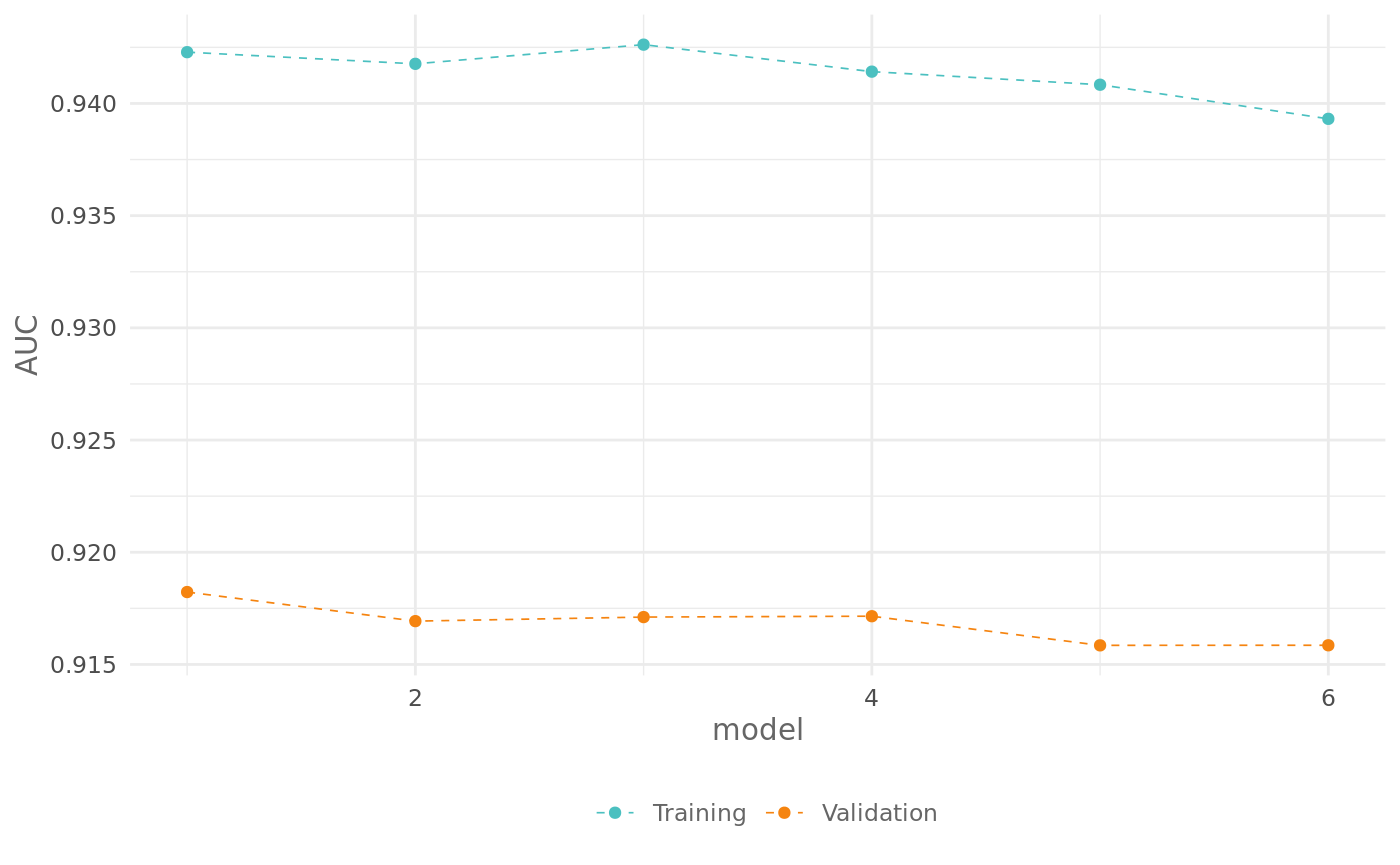
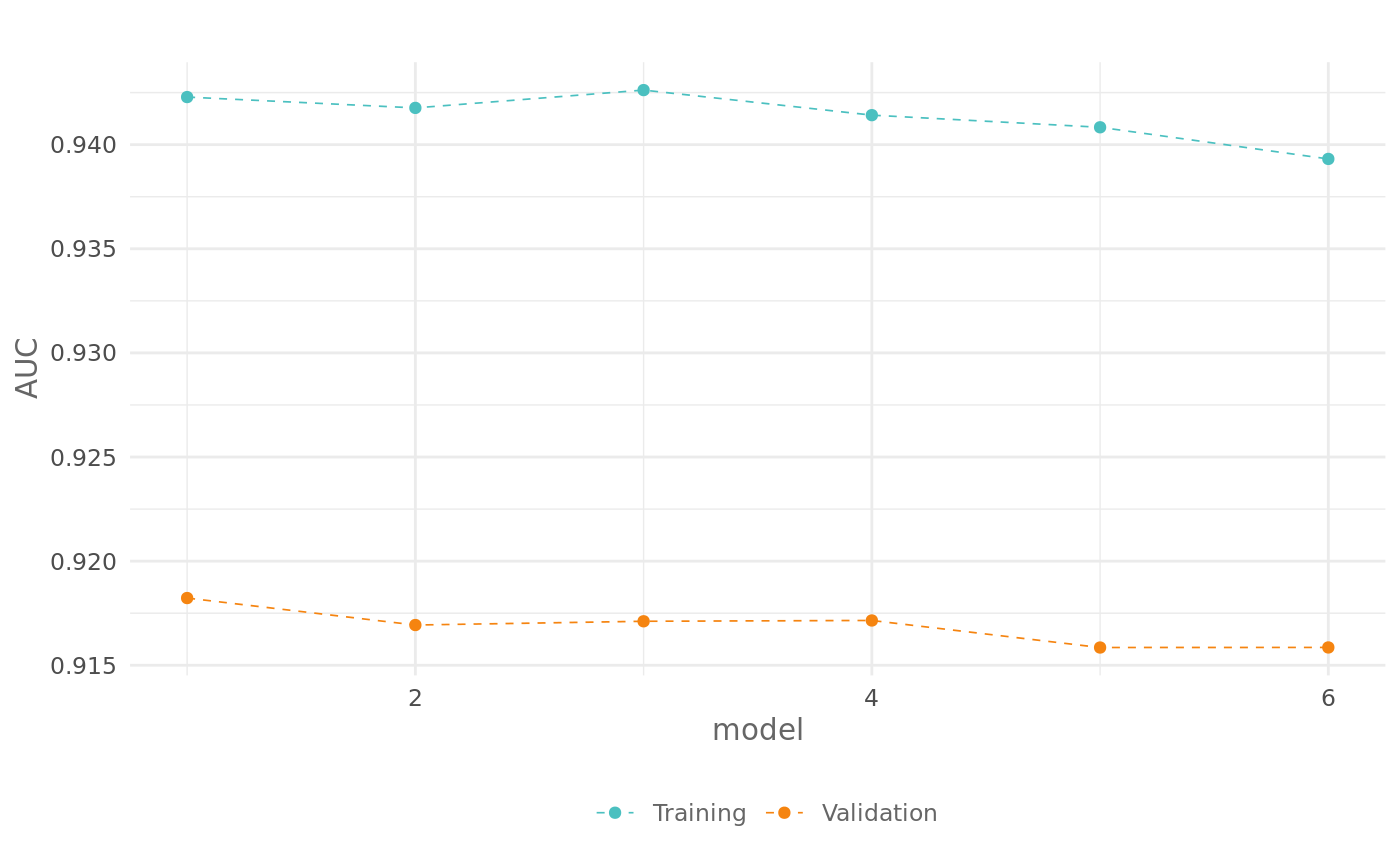
Built site for SDMtune: 0.1.1.9000@741a61c

diff --git a/dev/reference/plot-methods.html b/dev/reference/plot-methods.html
@@ -175,7 +175,7 @@ interactive chart.</p>
     </div>
 
     <pre class="usage"><span class='co'># S4 method for SDMtune,missing</span>
-<span class='fu'><a href='https://www.rdocumentation.org/packages/graphics/topics/plot'>plot</a></span>(<span class='no'>x</span>, <span class='kw'>interactive</span> <span class='kw'>=</span> <span class='fl'>FALSE</span>)</pre>
+<span class='fu'><a href='https://www.rdocumentation.org/packages/graphics/topics/plot'>plot</a></span>(<span class='no'>x</span>, <span class='kw'>title</span> <span class='kw'>=</span> <span class='st'>""</span>, <span class='kw'>interactive</span> <span class='kw'>=</span> <span class='fl'>FALSE</span>)</pre>
     
     <h2 class="hasAnchor" id="arguments"><a class="anchor" href="#arguments"></a>Arguments</h2>
     <table class="ref-arguments">
@@ -183,6 +183,10 @@ interactive chart.</p>
     <tr>
       <th>x</th>
       <td><p><a href='SDMtune-class.html'>SDMtune</a> object.</p></td>
+    </tr>
+    <tr>
+      <th>title</th>
+      <td><p>character. The title of the plot, by default is an empty string.</p></td>
     </tr>
     <tr>
       <th>interactive</th>

diff --git a/dev/news/index.html b/dev/news/index.html
@@ -176,7 +176,7 @@
 <a href="#sdmtune-0-1-1" class="anchor"></a>SDMtune 0.1.1<small> 2019-07-14 </small>
 </h1>
 <ul>
-<li>Fix bug in VarImp function for SDMmodelCV objects</li>
+<li>Fix bug in <code>VarImp</code> function for <code>SDMmodelCV</code> objects</li>
 <li>Real-time charts are now displayed also when R is not executed from RStudio</li>
 <li>
 <code>maxentVarImp</code> function available for <code>SDMmodelCV</code> objects</li>
@@ -186,6 +186,9 @@
 <h1 class="page-header">
 <a href="#sdmtune-0-1-1-9000" class="anchor"></a>SDMtune 0.1.1.9000<small> Unreleased </small>
 </h1>
+<ul>
+<li>Add title argument in <code>plot</code> <code>SDMtune</code> object</li>
+</ul>
 </div>
   </div>
 
